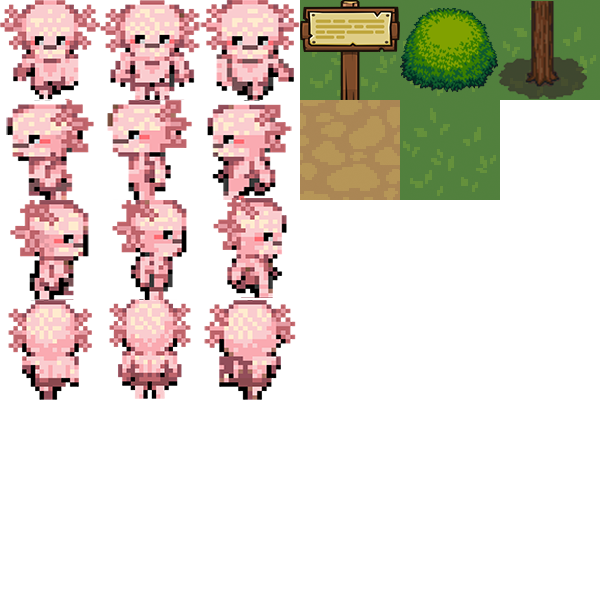
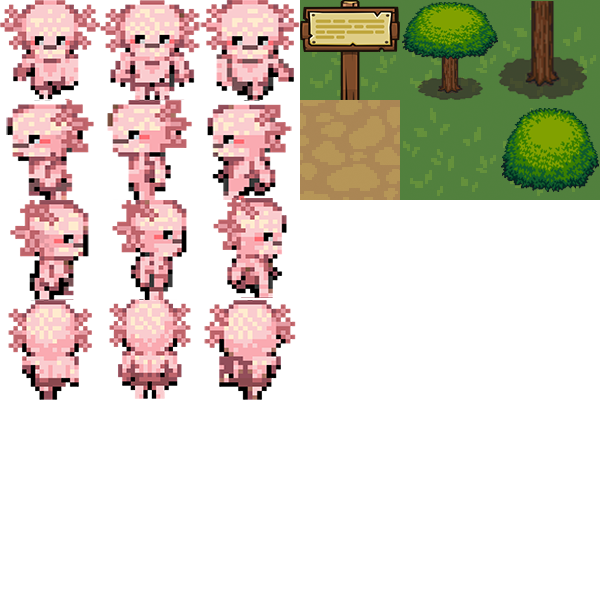
cambie el arbol, ahora el arbol tiene colisiones, corregido el sistema de colisiones

Changed region(s): [[0.81, 0.15, 1.0, 0.36], [0.66, 0.0, 0.84, 0.18]]

diff --git a/src/Criaturas.java b/src/Criaturas.java
@@ -26,15 +26,22 @@ public abstract class Criaturas extends Entidades {
         //movimiento a la derecha
         if (xMove>0){
             int tx=(int)(x+xMove+colision.x + colision.width)/Casillas.ANCHOCASILLA;
-            if (!colisionConCasilla(tx,(int)(y+colision.y)/Casillas.ALTOCASILLA) && !colisionConCasilla(tx,(int)(y+colision.y+colision.height)/Casillas.ALTOCASILLA)){
+            if (!colisionConCasilla(tx,(int)(y+colision.y)/Casillas.ALTOCASILLA) &&
+                    !colisionConCasilla(tx,(int)(y+colision.y+colision.height)/Casillas.ALTOCASILLA)){
                 x+=xMove;
+            }else {
+                x=tx*Casillas.ANCHOCASILLA-colision.x-colision.width-1;
             }
         }
         //movimiento a la izquierda
-        else if (xMove<0){
-            int tx=(int)(x+xMove+colision.x)/Casillas.ANCHOCASILLA;
-            if (!colisionConCasilla(tx,(int)(y+colision.y)/Casillas.ALTOCASILLA) && !colisionConCasilla(tx,(int)(y+colision.y+colision.height)/Casillas.ALTOCASILLA))
-            x+=xMove;
+        else if (xMove<0) {
+            int tx = (int) (x + xMove + colision.x) / Casillas.ANCHOCASILLA;
+            if (!colisionConCasilla(tx, (int) (y + colision.y) / Casillas.ALTOCASILLA) &&
+                    !colisionConCasilla(tx, (int) (y + colision.y + colision.height) / Casillas.ALTOCASILLA)) {
+                x += xMove;
+            } else {
+                x = tx * Casillas.ANCHOCASILLA + Casillas.ANCHOCASILLA - colision.x;
+            }
         }
     }
 

diff --git a/src/CasillaArbol.java b/src/CasillaArbol.java
@@ -4,4 +4,9 @@ public class CasillaArbol extends Casillas {
     public CasillaArbol(int id) {
         super(Assets.arbol, id);
     }
+
+    @Override
+    public boolean EsSolido() {
+        return true;
+    }
 }
